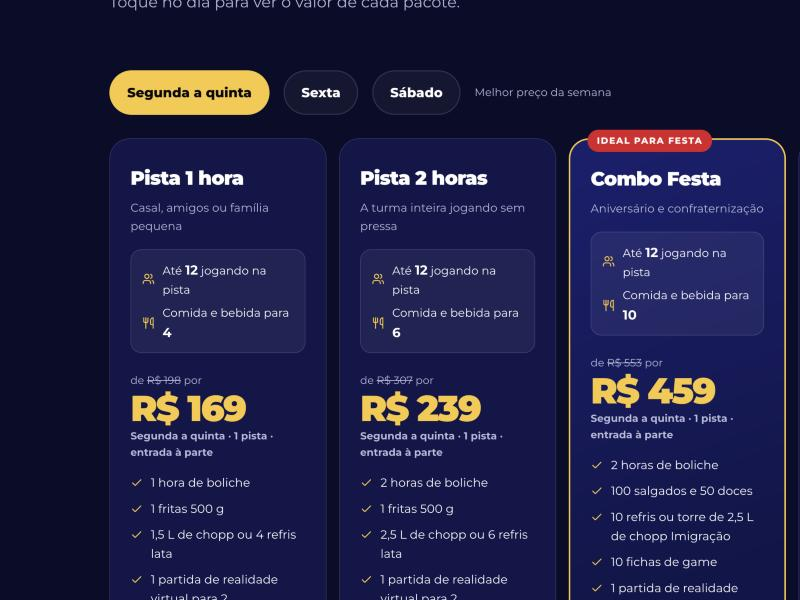
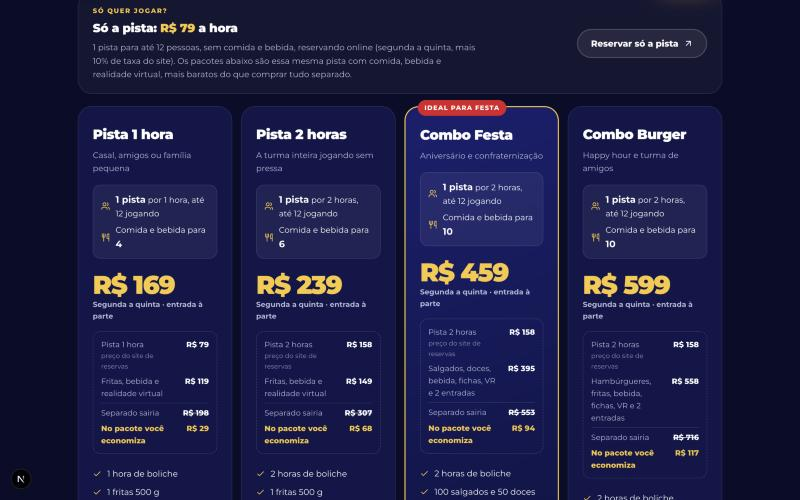
Pacotes: mostra o que o preço inclui (pista + itens) e a opção só pista
O "de" de cada pacote é 1 pista no preço do Eleven Tickets mais um valor fixo
de itens (R$ 119, 149, 395 e 558 nos três dias). Cada card mostra essa conta,
quanto sairia separado e quanto economiza; acima, a faixa "Só a pista" com o
preço da hora. Teste confere a conta nas duas fontes.

diff --git a/src/components/sections/Packages.tsx b/src/components/sections/Packages.tsx
@@ -5,12 +5,21 @@
  */
 import { Check, Users, Utensils } from 'lucide-react'
 import { useRef, useState } from 'react'
-import { DAYS, PACKAGES, PEOPLE_PER_LANE, brl, type DayKey } from '@/content/packages'
+import { DAYS, LANE_FEE_PCT, LANE_PRICES, PACKAGES, PEOPLE_PER_LANE, brl, priceBreakdown, type DayKey } from '@/content/packages'
 import { MOTION_OK, gsap, useGSAP } from '@/components/motion/gsap'
-import { WhatsAppButton } from '@/components/ui/Actions'
+import { ReserveButton, WhatsAppButton } from '@/components/ui/Actions'
 import { trackEvent } from '@/components/tracking/track'
 
-export function Packages({ only, tone = 'dark' }: { only?: string[]; tone?: 'dark' | 'cream' }) {
+export function Packages({
+  only,
+  tone = 'dark',
+  showLane = !only,
+}: {
+  only?: string[]
+  tone?: 'dark' | 'cream'
+  /** Faixa "Só a pista" acima dos pacotes, para comparar. */
+  showLane?: boolean
+}) {
   const [day, setDay] = useState<DayKey>('semana')
   const scope = useRef<HTMLDivElement>(null)
   const list = only ? PACKAGES.filter((p) => only.includes(p.id)) : PACKAGES
@@ -29,7 +38,7 @@ export function Packages({ only, tone = 'dark' }: { only?: string[]; tone?: 'dar
           { yPercent: 70, opacity: 0 },
           { yPercent: 0, opacity: 1, duration: 0.5, stagger: 0.05, ease: 'back.out(2.2)', overwrite: true },
         )
-        gsap.fromTo('.pkg__from', { opacity: 0 }, { opacity: 1, duration: 0.4, overwrite: true })
+        gsap.fromTo('.pkg__calc dd, .lane-only__price', { opacity: 0 }, { opacity: 1, duration: 0.4, overwrite: true })
       })
     },
     { scope, dependencies: [day] },
@@ -60,9 +69,28 @@ export function Packages({ only, tone = 'dark' }: { only?: string[]; tone?: 'dar
         <span className="pkgs__toggle-hint">{day === 'semana' ? 'Melhor preço da semana' : 'Fim de semana lota: reserve antes'}</span>
       </div>
 
+      {showLane && (
+        <div className="lane-only">
+          <div>
+            <p className="lane-only__kicker">Só quer jogar?</p>
+            <p className="lane-only__title">
+              Só a pista: <strong className="lane-only__price">{brl(LANE_PRICES[day])}</strong> a hora
+            </p>
+            <p className="lane-only__text">
+              1 pista para até {PEOPLE_PER_LANE} pessoas, sem comida e bebida, reservando online ({dayLabel.toLowerCase()},
+              mais {LANE_FEE_PCT}% de taxa do site). Os pacotes abaixo são essa mesma pista com comida, bebida e
+              realidade virtual, mais baratos do que comprar tudo separado.
+            </p>
+          </div>
+          <ReserveButton id="pacotes-so-pista" variant="secondary">
+            Reservar só a pista
+          </ReserveButton>
+        </div>
+      )}
+
       <div className="pkgs__grid" data-stagger>
         {list.map((p) => {
-          const price = p.prices[day]
+          const b = priceBreakdown(p, day)
           return (
             <article key={p.id} className={`pkg${p.highlight ? ' pkg--hot' : ''}`} id={`pacote-${p.id}`}>
               {p.badge && <span className="pkg__badge">{p.badge}</span>}
@@ -72,7 +100,8 @@ export function Packages({ only, tone = 'dark' }: { only?: string[]; tone?: 'dar
                 <li>
                   <Users size={16} aria-hidden="true" />
                   <span>
-                    Até <strong>{PEOPLE_PER_LANE}</strong> jogando na pista
+                    <strong>1 pista</strong> por {p.hours === 1 ? '1 hora' : `${p.hours} horas`}, até {PEOPLE_PER_LANE}{' '}
+                    jogando
                   </span>
                 </li>
                 <li>
@@ -83,12 +112,32 @@ export function Packages({ only, tone = 'dark' }: { only?: string[]; tone?: 'dar
                 </li>
               </ul>
               <p className="pkg__price">
-                <span className="pkg__from">
-                  de <s>{brl(price.from)}</s> por
-                </span>
-                <strong data-price={p.id}>{brl(price.to)}</strong>
-                <span className="pkg__day">{dayLabel} · 1 pista · entrada à parte</span>
+                <strong data-price={p.id}>{brl(b.pack)}</strong>
+                <span className="pkg__day">{dayLabel} · entrada à parte</span>
               </p>
+              <dl className="pkg__calc" aria-label="Quanto sairia comprando separado">
+                <div>
+                  <dt>
+                    Pista {p.hours === 1 ? '1 hora' : `${p.hours} horas`}
+                    <small>preço do site de reservas</small>
+                  </dt>
+                  <dd>{brl(b.lane)}</dd>
+                </div>
+                <div>
+                  <dt>{p.extrasLabel}</dt>
+                  <dd>{brl(b.extras)}</dd>
+                </div>
+                <div className="pkg__calc-total">
+                  <dt>Separado sairia</dt>
+                  <dd>
+                    <s>{brl(b.separate)}</s>
+                  </dd>
+                </div>
+                <div className="pkg__calc-save">
+                  <dt>No pacote você economiza</dt>
+                  <dd>{brl(b.saving)}</dd>
+                </div>
+              </dl>
               <ul className="pkg__items">
                 {p.items.map((it) => (
                   <li key={it}>

diff --git a/src/content/packages.ts b/src/content/packages.ts
@@ -29,6 +29,10 @@ export interface Package {
    * sai da quantidade de refris do próprio pacote (o teste confere).
    */
   foodFor: number
+  /** Horas de boliche (1 pista). Com o preço da pista do Eleven Tickets, explica o "de". */
+  hours: number
+  /** Como o card chama o que vem além da pista. */
+  extrasLabel: string
   highlight?: boolean
   /** Selo do card. Só use texto que seja fato (não "mais vendido" sem dado). */
   badge?: string
@@ -46,6 +50,8 @@ export const PACKAGES: Package[] = [
       sabado: { from: 248, to: 209 },
     },
     foodFor: 4,
+    hours: 1,
+    extrasLabel: 'Fritas, bebida e realidade virtual',
   },
   {
     id: 'pista-2h',
@@ -58,6 +64,8 @@ export const PACKAGES: Package[] = [
       sabado: { from: 407, to: 339 },
     },
     foodFor: 6,
+    hours: 2,
+    extrasLabel: 'Fritas, bebida e realidade virtual',
   },
   {
     id: 'festa',
@@ -77,6 +85,8 @@ export const PACKAGES: Package[] = [
       sabado: { from: 653, to: 549 },
     },
     foodFor: 10,
+    hours: 2,
+    extrasLabel: 'Salgados, doces, bebida, fichas, VR e 2 entradas',
     highlight: true,
     badge: 'Ideal para festa',
   },
@@ -98,6 +108,8 @@ export const PACKAGES: Package[] = [
       sabado: { from: 816, to: 699 },
     },
     foodFor: 10,
+    hours: 2,
+    extrasLabel: 'Hambúrgueres, fritas, bebida, fichas, VR e 2 entradas',
   },
 ]
 
@@ -106,6 +118,17 @@ export const LANE_PRICES: Record<DayKey, number> = { semana: 79, sexta: 99, saba
 export const LANE_FEE_PCT = 10
 export const PEOPLE_PER_LANE = 12
 export const LANES = 4
+
+/**
+ * Quebra do preço "de": a pista (preço do Eleven Tickets × horas) + o valor cheio dos
+ * itens. O valor dos itens não muda com o dia — o teste confere —, o que mostra que o
+ * "de" do site atual é exatamente 1 pista + itens.
+ */
+export function priceBreakdown(p: Package, day: DayKey) {
+  const lane = LANE_PRICES[day] * p.hours
+  const extras = p.prices[day].from - lane
+  return { lane, extras, separate: p.prices[day].from, pack: p.prices[day].to, saving: p.prices[day].from - p.prices[day].to }
+}
 
 export function brl(n: number): string {
   return n.toLocaleString('pt-BR', { style: 'currency', currency: 'BRL', maximumFractionDigits: 0 })

diff --git a/src/app/globals.css b/src/app/globals.css
@@ -1457,6 +1457,80 @@ a.attr-card:hover .attr-card__media svg {
   color: var(--muted-light);
   font-weight: 700;
 }
+.pkg__calc {
+  margin: 0 0 18px;
+  padding: 12px 14px;
+  border-radius: var(--radius-sm);
+  border: 1px dashed rgb(255 255 255 / 0.22);
+  display: grid;
+  gap: 6px;
+  font-size: 0.86rem;
+}
+.pkg__calc div {
+  display: flex;
+  justify-content: space-between;
+  align-items: baseline;
+  gap: 12px;
+}
+.pkg__calc dt {
+  color: var(--muted-light);
+}
+.pkg__calc dt small {
+  display: block;
+  font-size: 0.74rem;
+  opacity: 0.75;
+}
+.pkg__calc dd {
+  margin: 0;
+  font-weight: 800;
+  white-space: nowrap;
+}
+.pkg__calc-total {
+  border-top: 1px solid var(--line-light);
+  padding-top: 6px;
+}
+.pkg__calc-save dt,
+.pkg__calc-save dd {
+  color: var(--yellow);
+  font-weight: 800;
+}
+.lane-only {
+  display: flex;
+  flex-wrap: wrap;
+  align-items: center;
+  justify-content: space-between;
+  gap: 18px 32px;
+  margin-bottom: 22px;
+  padding: 22px 26px;
+  border-radius: var(--radius-lg);
+  border: 1px solid var(--line-light);
+  background: rgb(255 255 255 / 0.04);
+}
+.lane-only > div {
+  flex: 1 1 420px;
+}
+.lane-only__kicker {
+  font-size: 0.74rem;
+  font-weight: 800;
+  letter-spacing: 0.14em;
+  text-transform: uppercase;
+  color: var(--yellow);
+}
+.lane-only__title {
+  font-size: 1.35rem;
+  font-weight: 900;
+  letter-spacing: -0.02em;
+  margin: 4px 0 6px;
+}
+.lane-only__price {
+  display: inline-block;
+  color: var(--yellow);
+}
+.lane-only__text {
+  color: var(--muted-light);
+  font-size: 0.94rem;
+  max-width: 70ch;
+}
 .pkg__items {
   display: grid;
   gap: 9px;

diff --git a/tests/unit/precos.test.ts b/tests/unit/precos.test.ts
@@ -5,7 +5,7 @@
  *   - pista avulsa: eleventickets.com/strike-berlin/strike-berlin (1 hora, sem taxa)
  */
 import { describe, expect, it } from 'vitest'
-import { LANE_FEE_PCT, LANE_PRICES, PACKAGES, PEOPLE_PER_LANE } from '@/content/packages'
+import { LANE_FEE_PCT, LANE_PRICES, PACKAGES, PEOPLE_PER_LANE, priceBreakdown } from '@/content/packages'
 
 const CONFERIDO = {
   'pista-1h': { semana: [198, 169], sexta: [218, 189], sabado: [248, 209] },
@@ -35,6 +35,19 @@ describe('preços conferidos (05/10/2026)', () => {
     for (const p of PACKAGES) {
       const refris = p.items.map((it) => /(\d+) refris/.exec(it)?.[1]).find(Boolean)
       expect(Number(refris), `${p.id}: ${p.items.join(' | ')}`).toBe(p.foodFor)
+    }
+  })
+
+  it('o "de" do site atual = 1 pista no preço do Eleven Tickets + itens de valor fixo', () => {
+    // Se isto quebrar, o site atual ou o Eleven Tickets mudou preço: confira as duas fontes.
+    const extras = { 'pista-1h': 119, 'pista-2h': 149, festa: 395, burger: 558 } as const
+    for (const p of PACKAGES) {
+      for (const day of ['semana', 'sexta', 'sabado'] as const) {
+        const b = priceBreakdown(p, day)
+        expect(b.extras, `${p.id} ${day}`).toBe(extras[p.id as keyof typeof extras])
+        expect(b.lane + b.extras).toBe(p.prices[day].from)
+        expect(b.saving).toBeGreaterThan(0)
+      }
     }
   })
 

diff --git a/docs/FONTES-PRECOS.md b/docs/FONTES-PRECOS.md
@@ -51,18 +51,31 @@ Capturas dos outros dias: [quinta 08/10](fontes/3-eleventickets-quinta-08-10.jpg
 [sexta 30/10](fontes/4-eleventickets-sexta-30-10.jpg) ·
 [sábado 31/10](fontes/5-eleventickets-sabado-31-10.jpg).
 
-## 3. "Para quantas pessoas?" — o que é fonte e o que é conta nossa
+## 3. Por que o pacote custa mais que a pista — e para quantas pessoas
 
-Nenhuma das duas fontes diz para quantas pessoas é cada pacote. No card do site novo:
+**O preço "de" de cada pacote é exatamente 1 pista no preço do Eleven Tickets + um valor
+fixo dos itens.** A conta fecha nos três dias, o que mostra que cada pacote é **1 pista**:
+
+| Pacote | "De" (site atual) seg / sex / sáb | Pista no Eleven Tickets | Itens (valor fixo) |
+|---|---|---|---|
+| Pista 1 hora | 198 / 218 / 248 | 1 h: 79 / 99 / 129 | **R$ 119** (fritas, bebida e VR) |
+| Pista 2 horas | 307 / 347 / 407 | 2 h: 158 / 198 / 258 | **R$ 149** (fritas, bebida e VR) |
+| Combo Festa | 553 / 593 / 653 | 2 h: 158 / 198 / 258 | **R$ 395** (salgados, doces, bebida, fichas, VR, 2 entradas) |
+| Combo Burger | 716 / 756 / 816 | 2 h: 158 / 198 / 258 | **R$ 558** (hambúrgueres, fritas, bebida, fichas, VR, 2 entradas) |
+
+Por isso cada card mostra a conta: **pista + itens = "separado sairia"**, e quanto o pacote
+economiza. Ex.: Pista 1 hora de segunda a quinta = R$ 79 + R$ 119 = R$ 198 separado, ou
+**R$ 169 no pacote** (economia de R$ 29). O teste `precos.test.ts` confere essa conta.
 
 ![Cards no site novo](fontes/6-site-novo-cards.jpg)
 
 | No card | De onde vem |
 |---|---|
-| "Até **12** jogando na pista" | **Fonte:** regra do Eleven Tickets (12 por pista). |
-| "Comida e bebida para **4 / 6 / 10 / 10**" | **Conta nossa:** a quantidade de refris do próprio pacote (4, 6, 10, 10). O teste confere que o número bate com os itens. |
-| "1 pista" | **Conta nossa:** o pacote traz "1 hora" ou "2 horas de boliche", sem dizer quantas pistas; lemos como 1 pista. |
-| "50% antecipado" | **Fonte:** FAQ do site atual ("solicitamos um pagamento antecipado de 50% do valor"). |
+| "**1 pista** por 1 h / 2 h" | **Conta acima:** o "de" é sempre 1 pista + itens. |
+| "até **12** jogando" | **Fonte:** regra do Eleven Tickets (12 por pista). |
+| "Comida e bebida para **4 / 6 / 10 / 10**" | **Conta nossa:** quantidade de refris do pacote (4, 6, 10, 10). Nenhuma fonte diz para quantas pessoas é. |
+| Valor dos itens (R$ 119, 149, 395, 558) | **Conta nossa:** "de" do site atual − pista do Eleven Tickets. |
+| "50% antecipado" | **Fonte:** FAQ do site atual. |
 
 ## 4. O que é texto nosso (não está nas fontes)
 
@@ -72,5 +85,5 @@ Nenhuma das duas fontes diz para quantas pessoas é cada pacote. No card do site
 - A **oferta de doce extra** do Dia das Crianças: veio do pedido do cliente, sem
   quantidade nem validade definidas ainda.
 
-**A confirmar com a Roseli:** se cada pacote é mesmo para 1 pista e para quantas pessoas
-ela vende cada um; quantidade e validade do doce extra.
+**A confirmar com a Roseli:** para quantas pessoas ela vende cada pacote (a pista recebe até
+12; a comida rende pelo número de refris); quantidade e validade do doce extra.
